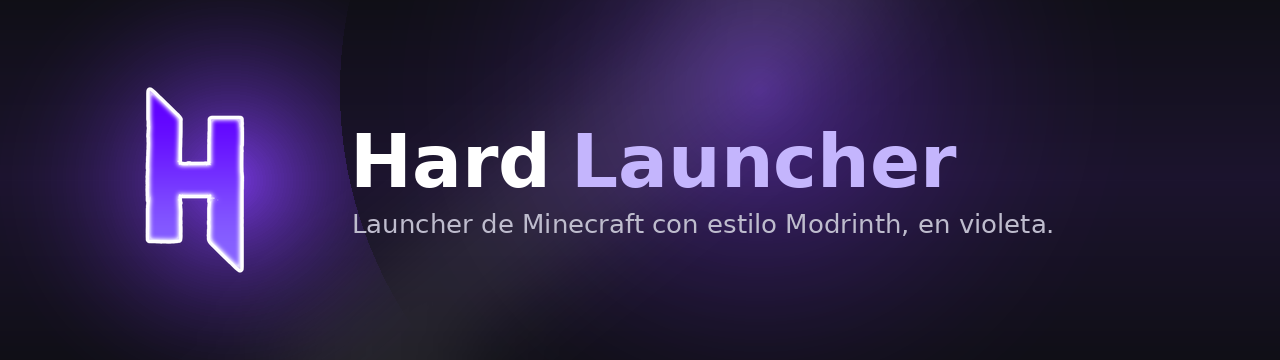
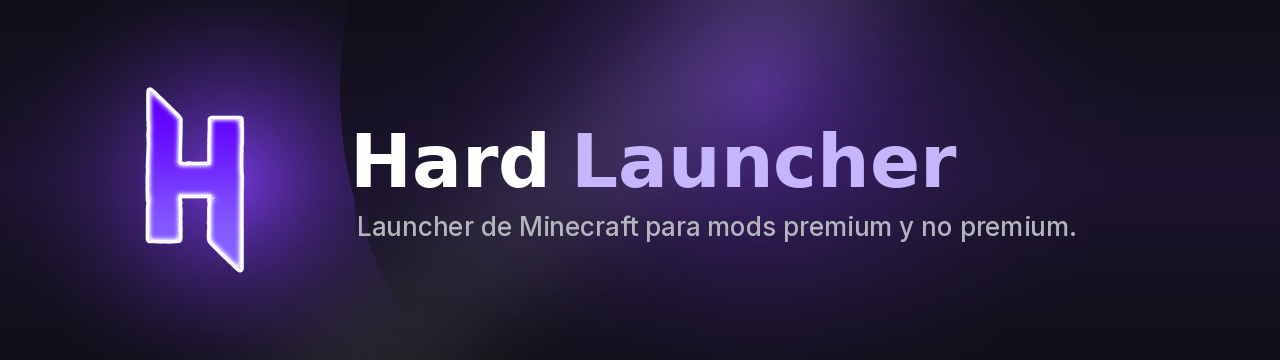
Version v1.0.8

Changed region(s): [[0.25, 0.5806, 0.8438, 0.6722]]

diff --git a/src/renderer/views/ExploreView.jsx b/src/renderer/views/ExploreView.jsx
@@ -196,6 +196,13 @@ export default function ExploreView() {
   // numera cada pedido; si para cuando responde ya no es el más reciente, se
   // descarta en vez de aplicarse.
   const searchRequestIdRef = useRef(0);
+  // Ancla al principio de la vista (el <h1>): scrollIntoView() hace que el
+  // navegador mismo encuentre y desplace el contenedor con scroll real
+  // (.main-content), en vez de asumir a mano cuál es con querySelector — más
+  // a prueba de balas si el layout cambia. Se usa solo desde el selector de
+  // página de ABAJO del todo (ver más abajo): el de arriba ya está a la
+  // vista, no hace falta moverlo.
+  const topRef = useRef(null);
 
   async function doSearch(nextOffset = 0, nextLimit = limit) {
     const requestId = ++searchRequestIdRef.current;
@@ -354,7 +361,7 @@ export default function ExploreView() {
   }
 
   return (
-    <div>
+    <div ref={topRef}>
       <h1 style={{ marginBottom: 16 }}>{tr('explore.title')}</h1>
 
       <div style={{ display: 'flex', gap: 8, marginBottom: 16 }}>
@@ -606,15 +613,19 @@ export default function ExploreView() {
               page={Math.floor(offset / limit) + 1}
               totalPages={Math.max(1, Math.ceil(totalHits / limit))}
               disabled={loading}
-              onChange={(p) => {
-                doSearch((p - 1) * limit);
-                // El selector de página de abajo del todo cambia de página
-                // pero el usuario sigue con el scroll donde estaba, abajo de
-                // los resultados anteriores. Lo llevamos de vuelta arriba del
-                // todo (al contenedor con scroll real, .main-content) para
-                // que vea desde el principio los resultados de la página
-                // recién seleccionada, en vez de tener que scrollear él mismo.
-                document.querySelector('.main-content')?.scrollTo({ top: 0, behavior: 'smooth' });
+              onChange={async (p) => {
+                // Antes esto llamaba a doSearch() sin esperarlo y scrolleaba
+                // en el mismo instante: como doSearch es asíncrono (espera
+                // la respuesta de red), el scroll pasaba MIENTRAS todavía se
+                // veían los resultados de la página vieja, y el re-render
+                // que traía los nuevos (más abajo/arriba según el caso)
+                // terminaba ganándole al scroll — quedabas igual abajo del
+                // todo. Ahora se espera a que terminen de cargar los
+                // resultados de la página nueva antes de mover el scroll, y
+                // se usa scrollIntoView() sobre el tope real de la vista en
+                // vez de adivinar a mano cuál es el contenedor con scroll.
+                await doSearch((p - 1) * limit);
+                topRef.current?.scrollIntoView({ behavior: 'smooth', block: 'start' });
               }}
             />
           </div>

diff --git a/electron/discordPresence.js b/electron/discordPresence.js
@@ -29,7 +29,7 @@ const { Client } = require('@xhayper/discord-rpc');
 // Presence" → "Art Assets" con el key 'launcher_icon', ese es el nombre que
 // hay que usar abajo en largeImageKey para que se vea tu ícono en vez de no
 // mostrar ninguna imagen.
-const CLIENT_ID = '1548432655517876264';
+const CLIENT_ID = '1548438227109679104';
 
 const RECONNECT_INTERVAL_MS = 15000;
 

diff --git a/README.md b/README.md
@@ -7,7 +7,7 @@
 [![Plataforma](https://img.shields.io/badge/plataforma-Windows-8b5cf6?style=for-the-badge&logo=windows&logoColor=white)](https://github.com/whoishard/hardlauncher/releases/latest)
 [![Electron](https://img.shields.io/badge/Electron-30-c4b5fd?style=for-the-badge&logo=electron&logoColor=1a1a1a)](https://www.electronjs.org/)
 
-**Launcher de Minecraft para cuentas premium y no premium.**
+**Launcher de Minecraft para mods premium y no premium.**
 Cuentas Offline y Microsoft, mods/modpacks/resource packs/shaders,
 gestión de instancias, y actualizaciones automáticas. Basado en Modrinth.
 
